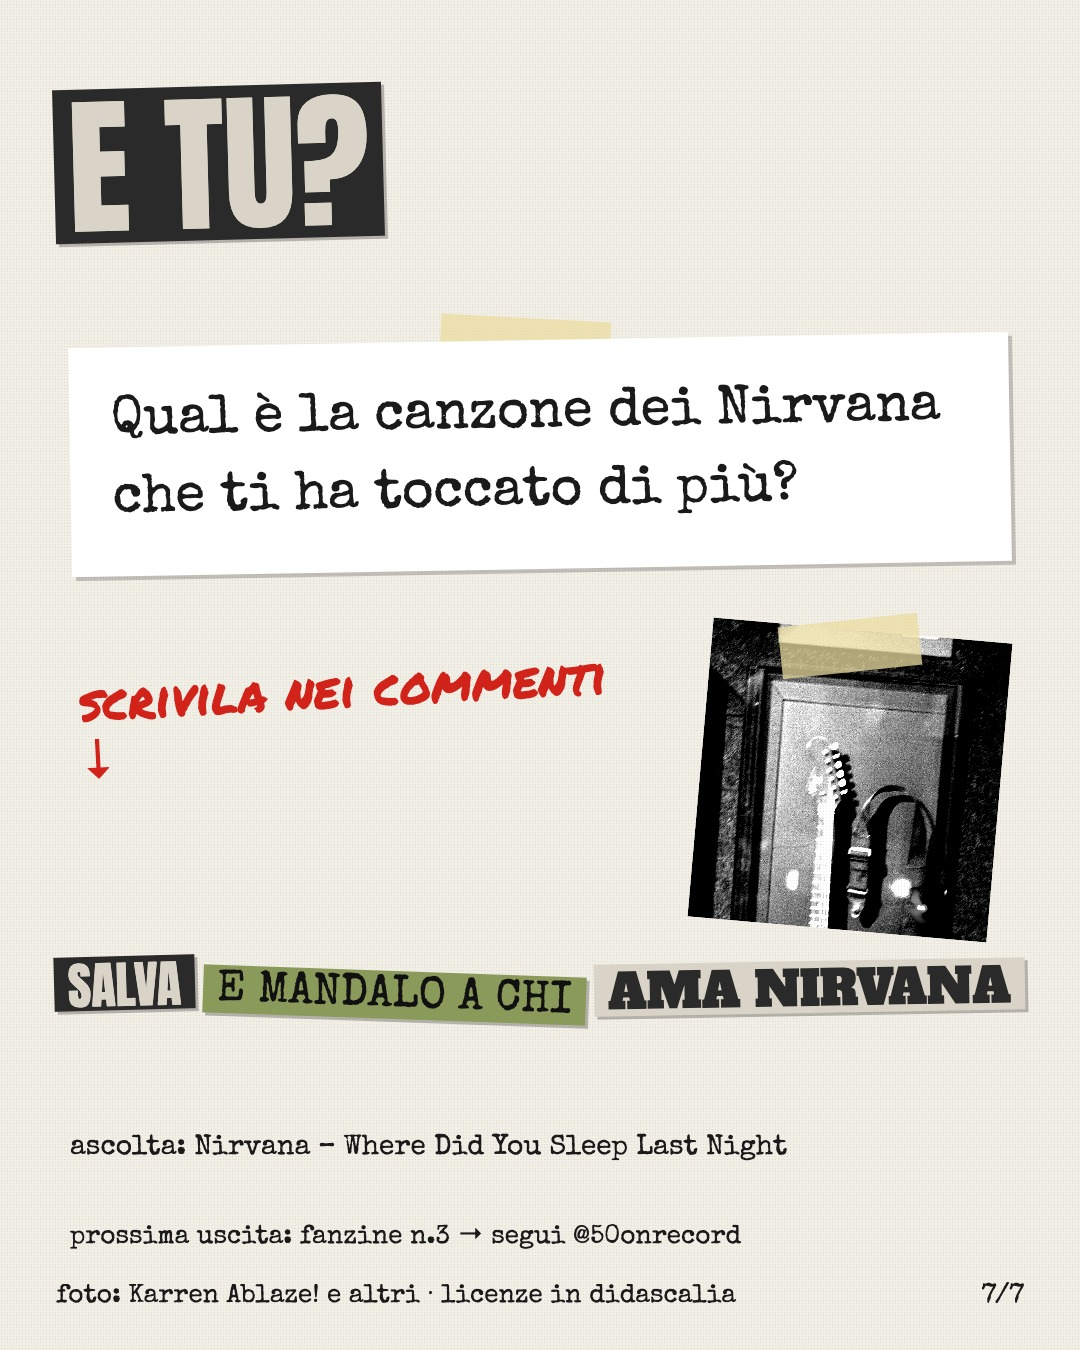
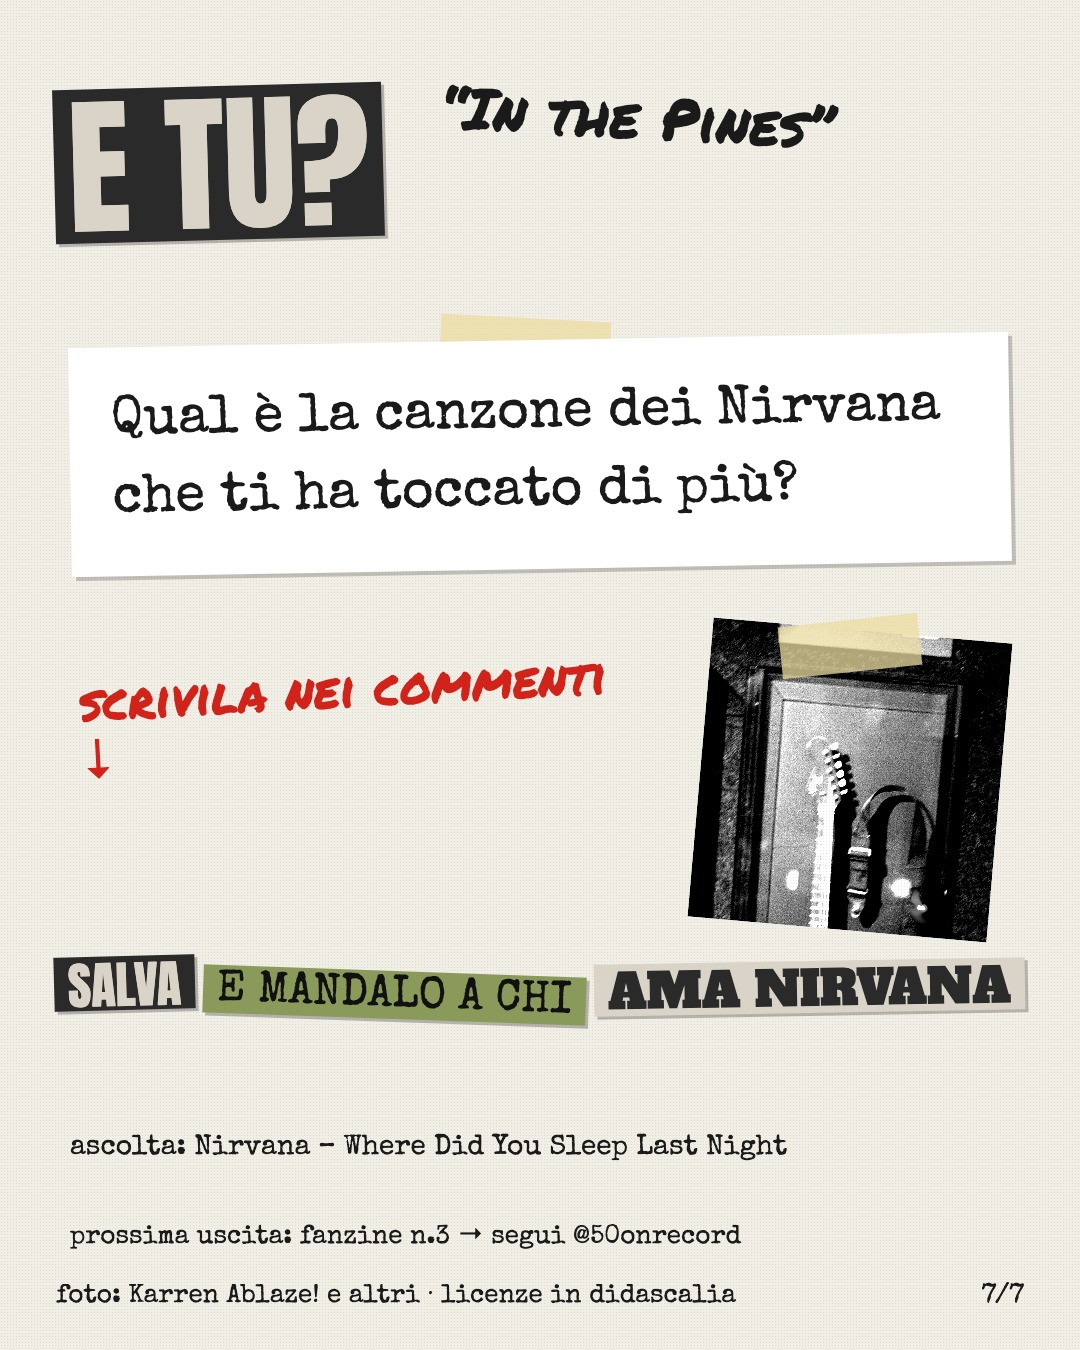
didascalia compatta senza link (non cliccabili su Instagram); Nirvana: frase 'In the Pines' sull'ultima slide

Changed region(s): [[0.3972, 0.0622, 0.7944, 0.1244]]

diff --git a/tests/test_caption.py b/tests/test_caption.py
@@ -19,18 +19,42 @@ def test_caption_contents(story_dict):
     assert story.caption_body in text
     assert story.question in text
     assert "Salvalo e mandalo a chi ama The Police" in text
-    assert "Foto: Acroterion · CC BY-SA 4.0 · https://commons.wikimedia.org/wiki/File:Sting_Atlanta_1.jpg" in text
-    assert "Fonti:" in text
+    assert "Foto (Wikimedia Commons): Acroterion (CC BY-SA 4.0)" in text
+    assert "Fonti: " in text
     for fact in story.facts:
         for source in fact.sources:
-            assert str(source.url) in text
+            assert source.publisher in text
     assert "Per altre storie dietro le canzoni, segui @50onrecord" in text
     assert text.rstrip().endswith(" ".join(story.hashtags))
 
 
-def test_sources_listed_once(story_dict):
+def test_caption_has_no_links(story_dict):
+    # Su Instagram i link nelle didascalie non sono cliccabili: non servono.
     text = build_caption(Story(**story_dict), [_photo()], handle="@50onrecord")
-    assert text.count("https://www.songfacts.com/facts/the-police/message-in-a-bottle") == 1
+    assert "http" not in text
+
+
+def test_sources_listed_once_by_publisher(story_dict):
+    text = build_caption(Story(**story_dict), [_photo()], handle="@50onrecord")
+    sources_line = next(l for l in text.splitlines() if l.startswith("Fonti: "))
+    names = [n.strip() for n in sources_line[len("Fonti: "):].split(",")]
+    assert len(names) == len(set(names))
+
+
+def test_photo_credits_on_one_line_without_duplicates(story_dict):
+    photos = [_photo(), _photo(), Photo(path=Path("y.jpg"), author="Benky", license="CC BY 2.0",
+                                        source_url="https://commons.wikimedia.org/wiki/File:Y.jpg", sharealike=False)]
+    text = build_caption(Story(**story_dict), photos, handle="@x")
+    credit_lines = [l for l in text.splitlines() if l.startswith("Foto")]
+    assert credit_lines == ["Foto (Wikimedia Commons): Acroterion (CC BY-SA 4.0), Benky (CC BY 2.0)"]
+
+
+def test_doubled_author_name_is_collapsed(story_dict):
+    photo = Photo(path=Path("z.jpg"), author="Unknown authorUnknown author", license="Public domain",
+                  source_url="https://commons.wikimedia.org/wiki/File:Z.jpg", sharealike=False)
+    text = build_caption(Story(**story_dict), [photo], handle="@x")
+    assert "Unknown authorUnknown author" not in text
+    assert "Unknown author (Public domain)" in text
 
 
 def test_sharealike_notice(story_dict):
@@ -45,9 +69,8 @@ def test_caption_length_limit(story_dict):
         build_caption(Story(**story_dict), [_photo()], handle="@x")
 
 
-def test_caption_starts_with_listen_line_and_search_links(story_dict):
+def test_caption_starts_with_listen_line_without_links(story_dict):
     story = Story(**story_dict)
     text = build_caption(story, [_photo()], handle="@50onrecord")
     assert text.splitlines()[0] == "\U0001F3A7 Ascolta: The Police \u2013 Message in a Bottle"
-    assert "https://open.spotify.com/search/The%20Police%20%E2%80%93%20Message%20in%20a%20Bottle" in text
-    assert "https://www.youtube.com/results?search_query=The+Police+%E2%80%93+Message+in+a+Bottle" in text
+    assert "spotify" not in text.lower() and "youtube" not in text.lower()

diff --git a/onrecord/caption.py b/onrecord/caption.py
@@ -2,7 +2,6 @@
 from __future__ import annotations
 
 from typing import List
-from urllib.parse import quote, quote_plus
 
 from .models import Story
 from .photos import Photo
@@ -15,28 +14,34 @@ class CaptionTooLongError(ValueError):
     pass
 
 
-def build_caption(story: Story, photos: List[Photo], handle: str) -> str:
-    track = story.listen_track.strip()
-    listen = (f"\U0001F3A7 Ascolta: {track}\n"
-              f"Spotify: https://open.spotify.com/search/{quote(track)}\n"
-              f"YouTube: https://www.youtube.com/results?search_query={quote_plus(track)}")
-    parts = [listen, story.caption_body.strip(), story.question.strip(),
-             f"Salvalo e mandalo a chi ama {story.artist}."]
+def _clean_author(author: str) -> str:
+    """Commons a volte restituisce il nome due volte di seguito ("Unknown authorUnknown author")."""
+    author = author.strip()
+    half = len(author) // 2
+    if len(author) % 2 == 0 and author[:half] == author[half:]:
+        return author[:half]
+    return author
 
-    seen = []
+
+def build_caption(story: Story, photos: List[Photo], handle: str) -> str:
+    # Su Instagram i link nelle didascalie non sono cliccabili: niente indirizzi, solo nomi.
+    parts = [f"\U0001F3A7 Ascolta: {story.listen_track.strip()}", story.caption_body.strip(),
+             story.question.strip(), f"Salvalo e mandalo a chi ama {story.artist}."]
+
+    publishers = []
     for fact in story.facts:
         for source in fact.sources:
-            if str(source.url) not in [str(s.url) for s in seen]:
-                seen.append(source)
-    parts.append("Fonti:\n" + "\n".join(f"- {s.title} ({s.publisher}): {s.url}" for s in seen))
+            if source.publisher not in publishers:
+                publishers.append(source.publisher)
+    parts.append("Fonti: " + ", ".join(publishers))
 
     credits = []
     for p in photos:
-        line = f"Foto: {p.author} · {p.license} · {p.source_url}"
-        if line not in credits:
-            credits.append(line)
+        credit = f"{_clean_author(p.author)} ({p.license})"
+        if credit not in credits:
+            credits.append(credit)
     if credits:
-        block = "\n".join(credits)
+        block = "Foto (Wikimedia Commons): " + ", ".join(credits)
         if any(p.sharealike for p in photos):
             block += "\n" + SHAREALIKE_NOTICE
         parts.append(block)
